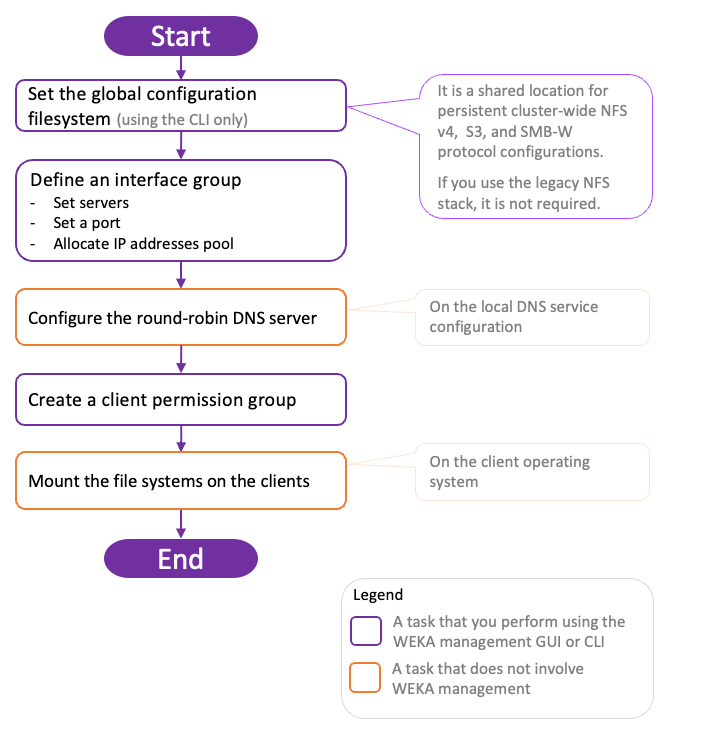
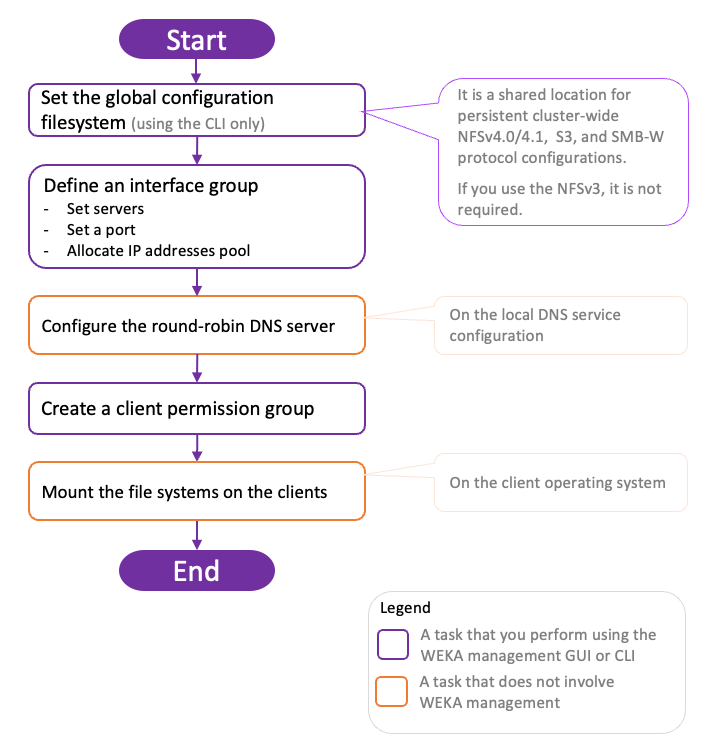
GITBOOK-216: NFS: minor update

diff --git a/additional-protocols/nfs-support/README.md b/additional-protocols/nfs-support/README.md
@@ -18,7 +18,7 @@ Adhere to the following guidelines and requirements when deploying the NFS servi
 
 ### **Global configuration filesystem**
 
-NFS-W requires a persistent cluster-wide configuration filesystem. The S3 and SMB-W services also share this filesystem.
+NFSv4.0/4.1 requires a persistent cluster-wide configuration filesystem. The S3 and SMB-W services also share this filesystem.
 
 ### **Interface groups**
 
